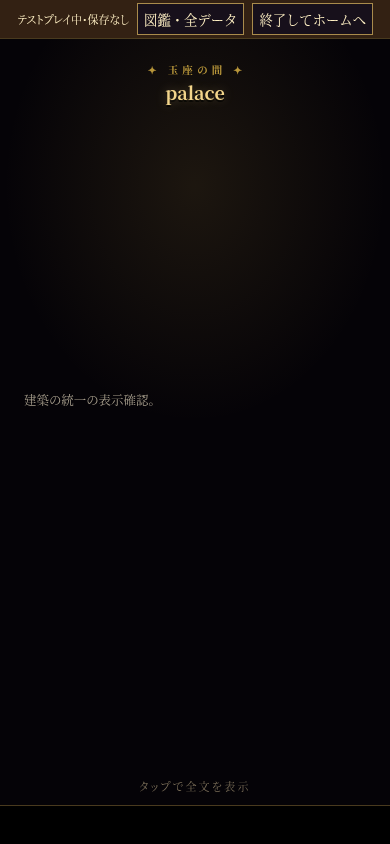
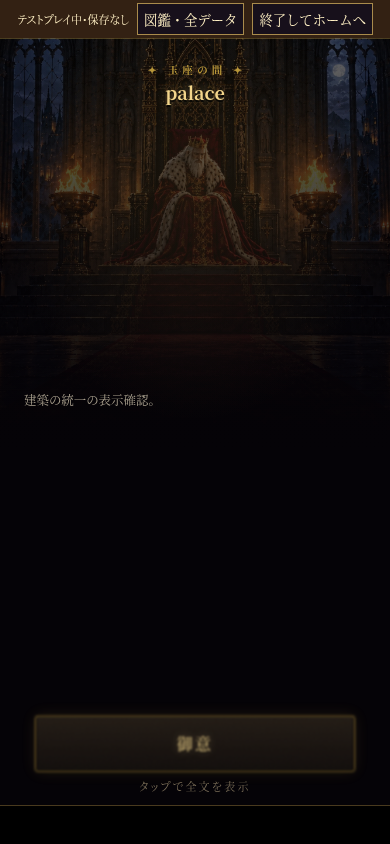
専用挿絵のない語りでも初回から王宮背景を表示

diff --git a/src/ui/story.js b/src/ui/story.js
@@ -168,7 +168,8 @@ export function playStoryChain(pages, done) {
   const artBox = el("div", "sc-art hidden");
   stage.appendChild(artBox);
   // 語り手の肖像 (ページごとに替わる時だけ描き直す)
-  let curWho = null, curArt = null;
+  // 未描画と「専用の絵なし」(null) を分け、初回も既定の王宮背景を置く。
+  let curWho = null, curArt;
   const setWho = (who) => {
     if (who === curWho) return;
     curWho = who;

diff --git a/docs/art/palace-unification/README.md b/docs/art/palace-unification/README.md
@@ -14,11 +14,14 @@
 
 共通基準は [制作指示書2-5](../codex-story-art-brief.md#2-5-王宮の建築を統一する基準)。`prompt.mjs` は玉座の間の全50場面（未制作の第十二章も含む）に共通の建築指示と `report_w12` を付け、序章の外観には街のパノラマを付ける。場面を増やす際も `illustration.setting === "throne"` を用いる。基準を人物や小道具と同じ指示書から読むため、二重管理しない。
 
+専用の挿絵がない語りで、初回に王宮背景が省略されていた不具合も修正した。未描画の状態を「専用絵なし」の `null` と分け、最初のページでも既定の背景を描く。
+
 ## 確認
 
 - `python3 tools/storyart/build.py`: 変更した物語原画2枚のみをWebPへ変換。登録・制作指示・読み物159場面の検査に合格。
 - `python3 tools/townart/build.py --only palace` と `--check`: 王宮背景を変換し、登録・原画の整合を確認。
 - 玉座の間50場面への建築指示・参照画像の付与、凍王や王家の廟・館への非適用を確認。
+- スマホ390×844・タブレット744×1000の実際の物語UIで3枚を確認。王宮背景はcanvasの描画完了も確認し、画像の読み込み失敗・実行時エラーなし。
 - 物語本文・ゲームの規則・保存データは変更しない。酒場の心得の追加・更新は対象外。
 
 物語の確認ページ: [序章](../../../art/story-review/review/chapter0.md) / [第二章](../../../art/story-review/review/chapter2.md)。縮小の見本: [序章](../../../art/story-review/review/chapter0-small.jpg) / [第二章](../../../art/story-review/review/chapter2-small.jpg)。
